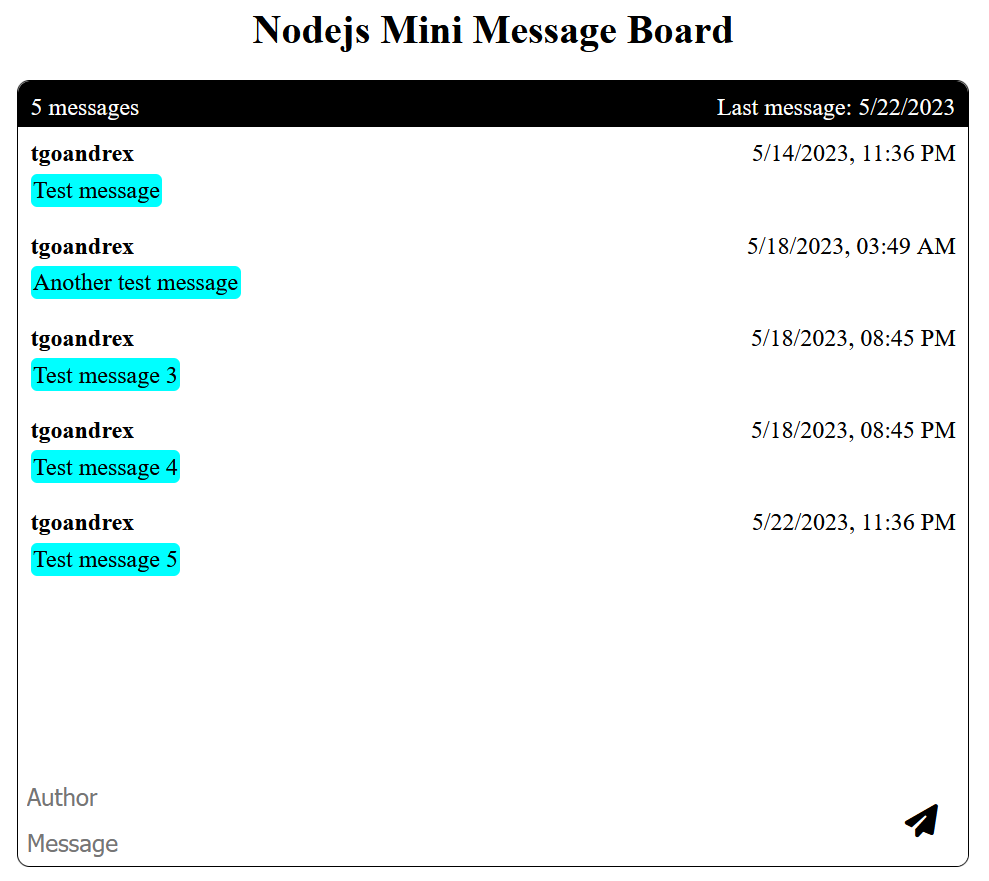
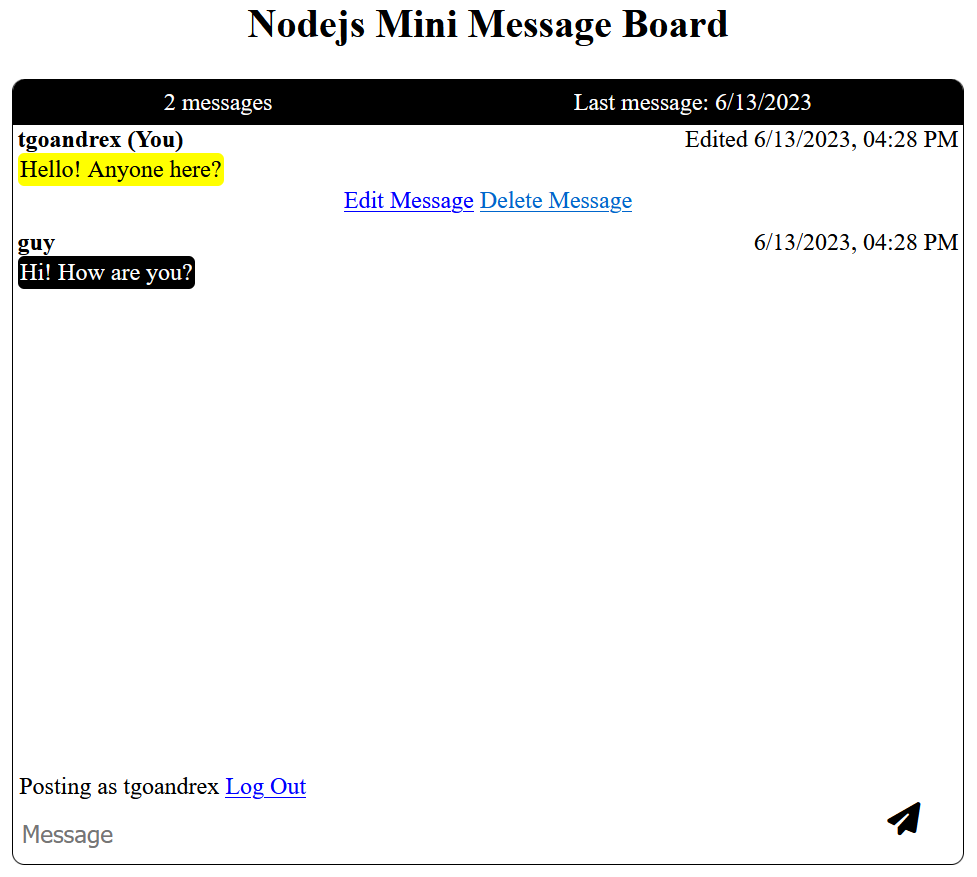
Update nodejs mini message board image and description

diff --git a/src/components/projects/Projects.js b/src/components/projects/Projects.js
@@ -14,7 +14,7 @@ function Projects() {
         description: `Choose and remember which Pokemon you chose to get the high score! Three levels of difficulty for a maximum of nine Pokemon! (I claim no legal ownership to 'Pokemon'. This application was strictly made for educational purposes only.)`,
         link: 'https://idyllic-cranachan-473ef6.netlify.app/', src: memory},
         {title: 'Nodejs Mini Message Board',
-        description: `Add a message to the message board! The database will save your message for others to read!`,
+        description: `Add a message to the message board for others to read! You have the ability to edit and delete your own messages too! Features user authentication in order to post messages!`,
         link: 'https://nodejs-mini-message-board.onrender.com/', src: messageBoard},
     ]
 
